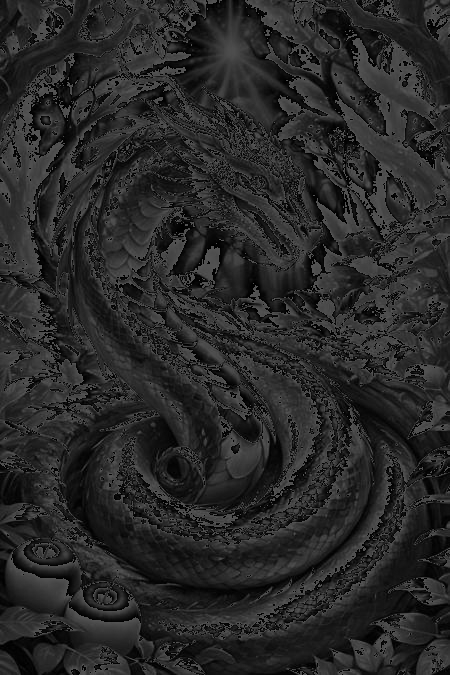
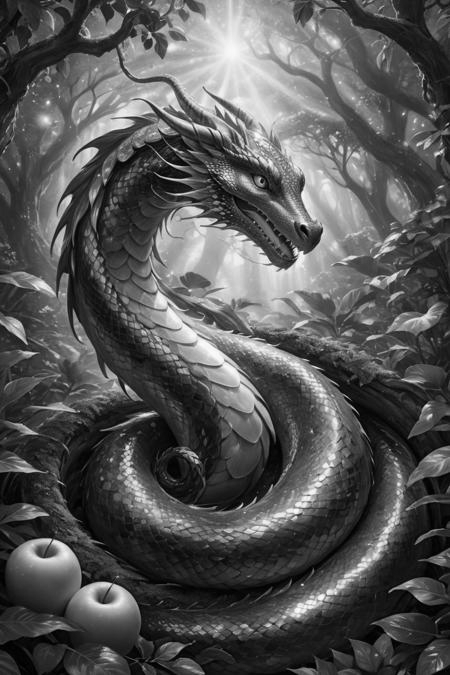
Rewrite cpu grayscale and add tex report

diff --git a/labwork3/labwork3.tex b/labwork3/labwork3.tex
@@ -1,0 +1,165 @@
+\documentclass[12pt]{article}
+\renewcommand{\baselinestretch}{1.2}
+\usepackage[utf8]{vietnam}
+\usepackage[a4paper, total={6in, 8in}]{geometry}
+\usepackage[english]{babel}
+\usepackage{hyperref}
+\usepackage{mathtools}
+\usepackage{amssymb}
+\usepackage{indentfirst}
+\usepackage{graphicx}
+\usepackage{minted}
+\usepackage{ragged2e}
+\usepackage{multirow}
+\usepackage{subcaption}
+\usepackage{xurl}
+\usepackage{amsmath}
+\usepackage{makecell}
+\usepackage{algorithm}
+\usepackage{algpseudocode}
+\renewcommand\theadalign{bc}
+\renewcommand\theadfont{\bfseries}
+\renewcommand\theadgape{\Gape[4pt]}
+\renewcommand\cellgape{\Gape[4pt]}
+\usepackage{pbox}
+\usepackage{graphicx}
+\usepackage{diagbox}
+\usepackage{listings}
+\usepackage{xcolor}
+
+\hypersetup{
+    colorlinks=true,
+    linkcolor=blue,
+    citecolor=blue,
+    urlcolor=blue,
+}
+\lstset{
+    backgroundcolor=\color{white},   
+    basicstyle=\footnotesize,       
+    breakatwhitespace=false,         
+    breaklines=true,                 
+    captionpos=b,                    
+    commentstyle=\color{red},    
+    escapeinside={\%*}{*)},          
+    extendedchars=true,              
+    keepspaces=true,                 
+    keywordstyle=\color{blue},       
+    language=Python,                
+    numbers=left,                    
+    numbersep=5pt,                  
+    showspaces=false,                
+    showstringspaces=false,
+    showtabs=false,                  
+    tabsize=2
+}
+\begin{document}
+\begin{center}
+    \vspace*{1.8cm}
+    \Large
+    Labwork3\\
+\end{center}
+
+\noindent
+First, we have an image:
+\begin{figure}[H]
+\centering
+    \includegraphics[height = 0.5\textheight, keepaspectratio]{images/image.jpeg}
+    \caption{A simple image}
+\end{figure}
+
+\noindent
+Then, we reshaped the image to a 2D image and created an input and output buffer on the device.
+
+\begin{lstlisting}[language=Python]
+image = cv2.imread("../images/image.jpeg")
+image_1d = np.reshape(image, (-1, 3))
+height, width, _ = image.shape
+pixel_count = height * width
+output_device = cuda.device_array((pixel_count,), np.uint8)
+input_device = cuda.to_device(image_1d)
+\end{lstlisting}
+
+\noindent
+First, we defined a function to convert an image to grayscale on the CPU. 
+
+\begin{lstlisting}[language=Python]
+def grayscale_cpu(image):
+    height = image.shape[0]
+    width = image.shape[1]
+    image_greyscale = np.zeros((height, width), dtype=np.uint8)
+    for h in range(height):
+        for w in range(width):
+            image_greyscale[h, w] = (
+                image[h][w][0] + image[h][w][1] + image[h][w][2]
+            ) // 3
+    return image_greyscale
+\end{lstlisting}
+
+\noindent
+The time processed is around 0.75-0.80 seconds. The resulting image is:
+
+\begin{figure}[H]
+\centering
+    \includegraphics[height = 0.5\textheight, keepaspectratio]{images/grayscale_image_cpu.png}
+    \caption{Grayscale image on CPU}
+\end{figure}
+
+\noindent
+First, we defined a function to convert an image to grayscale on GPU. 
+
+\begin{lstlisting}[language=Python]
+@cuda.jit
+def grayscale_gpu(src, dst):
+    tidx = cuda.threadIdx.x + cuda.blockIdx.x * cuda.blockDim.x
+    g = np.uint8((src[tidx, 0] + src[tidx, 1] + src[tidx, 2]) // 3)
+    dst[tidx] = g
+\end{lstlisting}
+
+\noindent
+We defined block size and grid size, calculated the time processed, transferred the data from the device to the host, and saved the results.
+
+\begin{lstlisting}[language=Python]
+block_size = [64, 128, 256, 512, 1024]
+time_processed_per_block = []
+for bs in block_size:
+    if pixel_count % bs == 0:
+        grid_size = pixel_count / bs
+    else:
+        grid_size = pixel_count // bs + 1
+
+    start = time.time()
+    grayscale_gpu[grid_size, bs](input_device, output_device)
+
+    time_processed = time.time() - start
+    time_processed_per_block.append(time_processed)
+
+    output_host = output_device.copy_to_host()
+    grayscale_image = np.reshape(output_host, (height, width))
+    cv2.imwrite(f"grayscale_image_gpu_{bs}.png", grayscale_image)
+\end{lstlisting}
+
+\noindent
+The time processed on GPU with different block sizes is:
+
+\begin{lstlisting}[language=Python]
+Block size: 128, time processed: 8.511543273925781e-05
+Block size: 256, time processed: 6.532669067382812e-05
+Block size: 512, time processed: 6.151199340820312e-05
+Block size: 1024, time processed: 6.127357482910156e-05
+\end{lstlisting}
+
+\noindent
+We plot the time comparison between different block sizes. 
+
+\begin{figure}[H]
+\centering
+    \includegraphics[width = \textwidth, keepaspectratio]{images/comparison.png}
+    \caption{Time comparison between different block sizes}
+\end{figure}
+
+\noindent
+Starting with a block size of 64, the time processed is around 0.14 seconds, which is already five times faster than CPU processing time. We increased the block size by two and noticed a considerable amount of time decrease, more than 150 times faster. We further increased the block size; the time slowly decreased, but not as much as before. 
+
+
+
+\end{document}

diff --git a/labwork3/labwork3.py b/labwork3/labwork3.py
@@ -15,13 +15,13 @@ input_device = cuda.to_device(image_1d)
 def grayscale_cpu(image):
     height = image.shape[0]
     width = image.shape[1]
-    image_greyscale = np.zeros((height, width), dtype=np.uint8)
+    image_grayscale = np.zeros((height, width), dtype=np.uint8)
     for h in range(height):
         for w in range(width):
-            image_greyscale[h, w] = (
-                image[h][w][0] + image[h][w][1] + image[h][w][2]
+            image_grayscale[h, w] = (
+                int(image[h][w][0]) + int(image[h][w][1]) + int(image[h][w][2])
             ) // 3
-    return image_greyscale
+    return image_grayscale
 
 
 @cuda.jit
@@ -32,11 +32,11 @@ def grayscale_gpu(src, dst):
 
 
 start = time.time()
-grayscale_image = grayscale_cpu(image)
+grayscale_cpu_image = grayscale_cpu(image)
 print(f"Time processed on CPU: {time.time() - start}s")
-cv2.imwrite(f"grayscale_image_cpu.png", grayscale_image)
+cv2.imwrite(f"grayscale_image_cpu.png", grayscale_cpu_image)
 
-block_size = [64, 128, 256, 512, 1024]
+block_size = [64]
 time_processed_per_block = []
 for bs in block_size:
     if pixel_count % bs == 0:
@@ -52,6 +52,7 @@ for bs in block_size:
 
     output_host = output_device.copy_to_host()
     grayscale_image = np.reshape(output_host, (height, width))
+    differences = grayscale_cpu_image != grayscale_image
     cv2.imwrite(f"grayscale_image_gpu_{bs}.png", grayscale_image)
 
 for bs, t in zip(block_size, time_processed_per_block):
